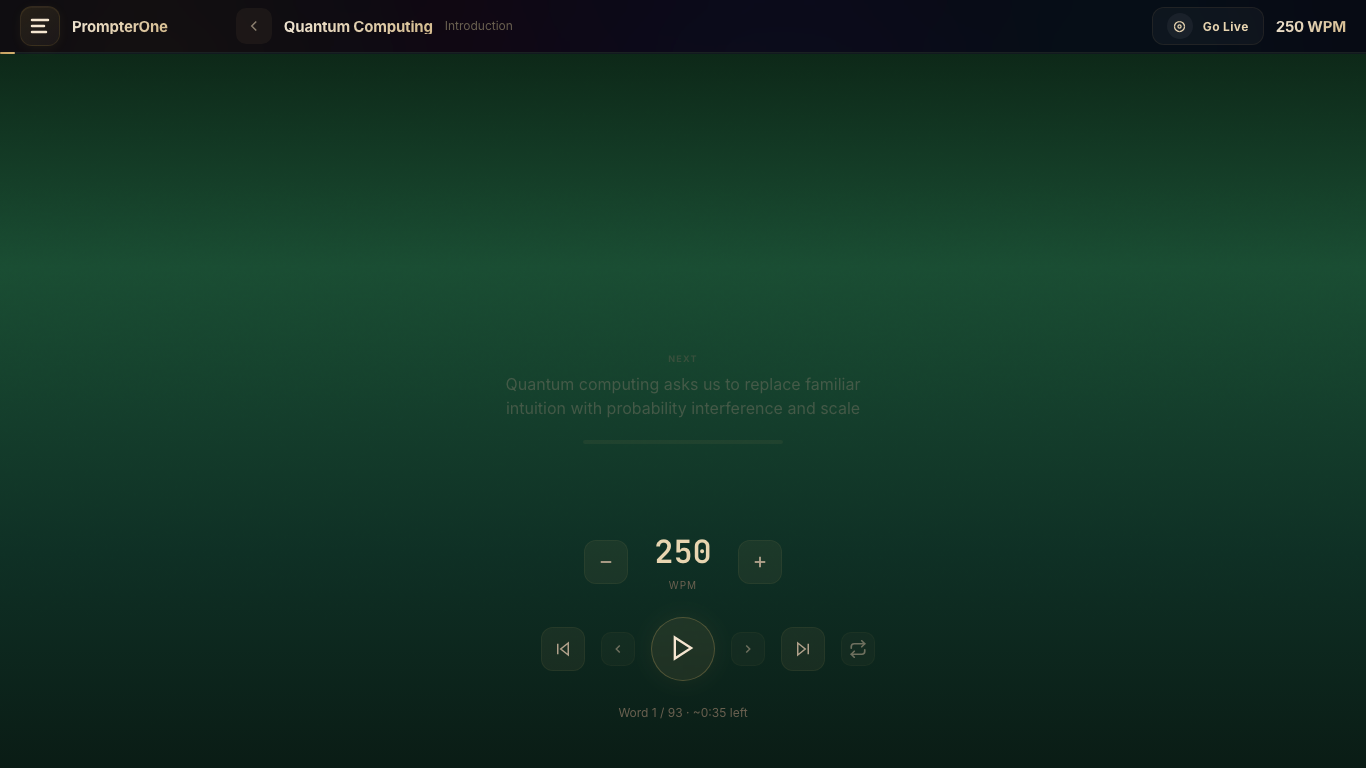
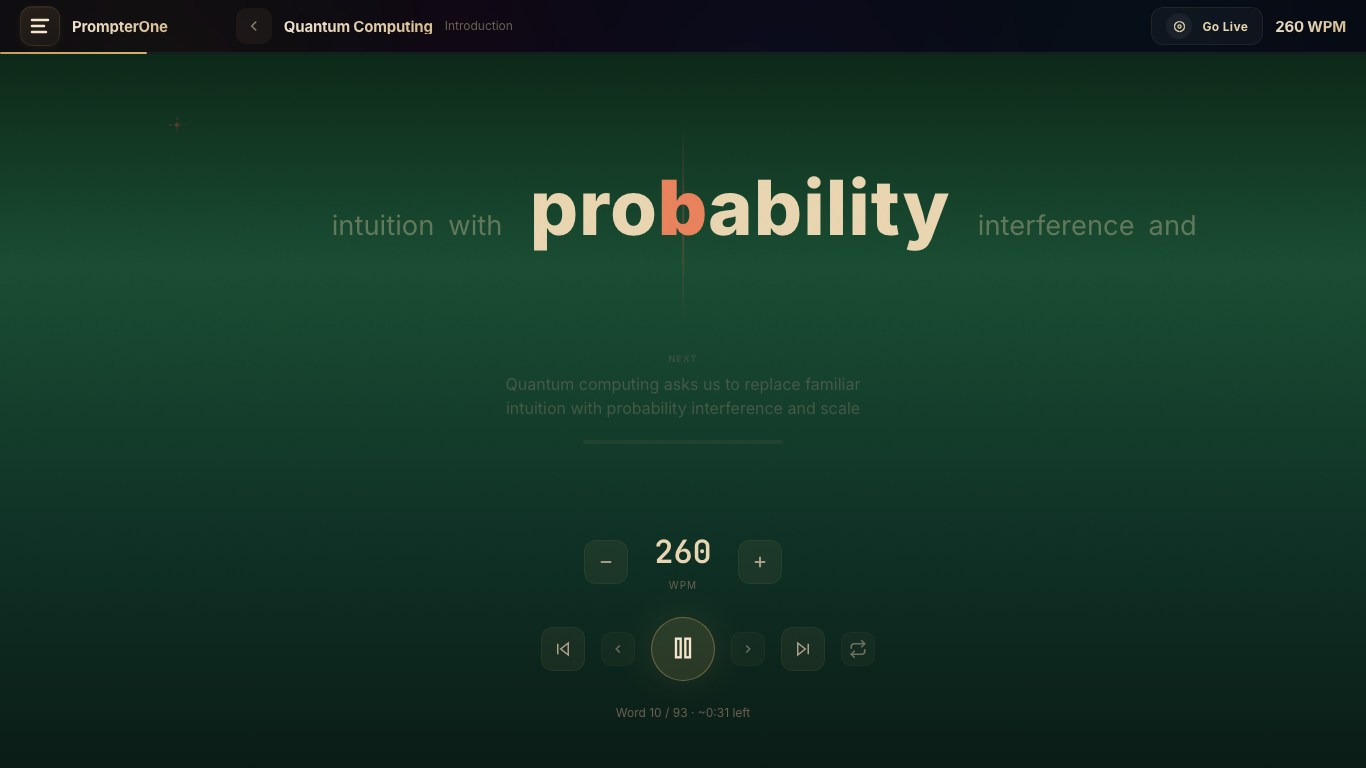
Refresh dark README screenshots and balance teleprompter text

diff --git a/src/PrompterOne.Shared/wwwroot/design/modules/reader/10-reading-states.css b/src/PrompterOne.Shared/wwwroot/design/modules/reader/10-reading-states.css
@@ -87,13 +87,17 @@
 
 .rd-cluster-text {
     font-size: var(--rd-font-size, 36px);
+    max-width: min(100%, var(--rd-content-max-width, 940px));
     font-weight: 700;
     line-height: 1.9;
     color: rgba(242,230,204,.34);
     letter-spacing: 0.01em;
     word-spacing: 0.08em;
+    margin-inline: auto;
     overflow-wrap: break-word;
     hyphens: none;
+    text-align: center;
+    text-wrap: balance;
     font-kerning: normal;
     font-feature-settings: "kern" 1;
     -webkit-font-smoothing: antialiased;

diff --git a/tests/PrompterOne.App.UITests/Teleprompter/TeleprompterTextBalanceFlowTests.cs b/tests/PrompterOne.App.UITests/Teleprompter/TeleprompterTextBalanceFlowTests.cs
@@ -1,0 +1,101 @@
+using PrompterOne.Shared.Contracts;
+using static Microsoft.Playwright.Assertions;
+
+namespace PrompterOne.App.UITests;
+
+public sealed class TeleprompterTextBalanceFlowTests(StandaloneAppFixture fixture)
+    : AppUiTestBase(fixture), IClassFixture<StandaloneAppFixture>
+{
+    private const int OpeningCardIndex = 0;
+
+    [Fact]
+    public Task TeleprompterScreen_OpeningBlock_KeepsMultiLineTextVisuallyBalancedWithinStage() =>
+        RunPageAsync(async page =>
+        {
+            await page.GotoAsync(BrowserTestConstants.Routes.TeleprompterDemo);
+            await Expect(page.GetByTestId(UiTestIds.Teleprompter.Page)).ToBeVisibleAsync(new()
+            {
+                Timeout = BrowserTestConstants.Timing.ExtendedVisibleTimeoutMs
+            });
+
+            var balance = await page.GetByTestId(UiTestIds.Teleprompter.CardText(OpeningCardIndex))
+                .EvaluateAsync<ReaderLineBalanceProbe?>(
+                    """
+                    (element, stageId) => {
+                        if (!(element instanceof HTMLElement)) {
+                            return null;
+                        }
+
+                        const stage = document.getElementById(stageId);
+                        if (!(stage instanceof HTMLElement)) {
+                            return null;
+                        }
+
+                        const range = document.createRange();
+                        range.selectNodeContents(element);
+
+                        const stageRect = stage.getBoundingClientRect();
+                        const wordRects = Array
+                            .from(range.getClientRects())
+                            .filter(rect => rect.width > 0 && rect.height > 0);
+
+                        if (wordRects.length === 0) {
+                            return {
+                                lineCount: 0,
+                                maxAsymmetryPx: 0,
+                                averageAsymmetryPx: 0
+                            };
+                        }
+
+                        const lineRectMap = new Map();
+                        for (const rect of wordRects) {
+                            const key = Math.round(rect.top);
+                            const existing = lineRectMap.get(key);
+                            if (existing) {
+                                existing.left = Math.min(existing.left, rect.left);
+                                existing.right = Math.max(existing.right, rect.right);
+                            } else {
+                                lineRectMap.set(key, { left: rect.left, right: rect.right });
+                            }
+                        }
+
+                        const lineRects = Array.from(lineRectMap.values());
+                        const asymmetries = lineRects.map(rect => {
+                            const leftGap = rect.left - stageRect.left;
+                            const rightGap = stageRect.right - rect.right;
+                            return Math.abs(leftGap - rightGap);
+                        });
+
+                        const totalAsymmetry = asymmetries.reduce((sum, value) => sum + value, 0);
+                        return {
+                            lineCount: lineRects.length,
+                            maxAsymmetryPx: Math.max(...asymmetries),
+                            averageAsymmetryPx: totalAsymmetry / asymmetries.length
+                        };
+                    }
+                    """,
+                    UiDomIds.Teleprompter.ClusterWrap);
+
+            Assert.NotNull(balance);
+            Assert.True(
+                balance.LineCount >= BrowserTestConstants.TeleprompterFlow.MinimumBalancedTextLineCount,
+                $"Expected at least {BrowserTestConstants.TeleprompterFlow.MinimumBalancedTextLineCount} visible text lines, but found {balance.LineCount}.");
+            Assert.InRange(
+                balance.MaxAsymmetryPx,
+                0,
+                BrowserTestConstants.TeleprompterFlow.MaximumTextLineAsymmetryPx);
+            Assert.InRange(
+                balance.AverageAsymmetryPx,
+                0,
+                BrowserTestConstants.TeleprompterFlow.MaximumAverageTextLineAsymmetryPx);
+        });
+
+    private sealed class ReaderLineBalanceProbe
+    {
+        public int LineCount { get; init; }
+
+        public double MaxAsymmetryPx { get; init; }
+
+        public double AverageAsymmetryPx { get; init; }
+    }
+}

diff --git a/src/PrompterOne.Shared/Teleprompter/Pages/TeleprompterPage.ReaderRendering.cs b/src/PrompterOne.Shared/Teleprompter/Pages/TeleprompterPage.ReaderRendering.cs
@@ -11,6 +11,9 @@ public partial class TeleprompterPage
     private const string ReaderCardCssClass = "rd-card";
     private const string ReaderCardNextCssClass = "rd-card-next";
     private const string ReaderCardPreviousCssClass = "rd-card-prev";
+    private const int ReaderComfortableContentMaxWidth = 940;
+    private const int ReaderComfortablePortraitContentMaxWidth = 760;
+    private const string ReaderContentMaxWidthVariableName = "--rd-content-max-width";
     private const string ReaderControlButtonCssClass = "rd-ctrl-btn";
     private const string ReaderCountdownCssClass = "rd-countdown";
     private const string ReaderGradientCssClass = "rd-gradient";
@@ -124,9 +127,11 @@ public partial class TeleprompterPage
 
     private string BuildClusterWrapStyle()
     {
+        var contentMaxWidth = ResolveReaderContentMaxWidth();
         var styleParts = new List<string>
         {
             $"max-width:{_readerTextWidth.ToString(CultureInfo.InvariantCulture)}px",
+            $"{ReaderContentMaxWidthVariableName}:{contentMaxWidth.ToString(CultureInfo.InvariantCulture)}px",
             $"--rd-font-size:{_readerFontSize.ToString(CultureInfo.InvariantCulture)}px"
         };
         var readerTransform = BuildReaderTransform();
@@ -138,6 +143,14 @@ public partial class TeleprompterPage
         }
 
         return string.Join(';', styleParts) + ';';
+    }
+
+    private int ResolveReaderContentMaxWidth()
+    {
+        var contentMaxWidth = Math.Min(_readerTextWidth, ReaderComfortableContentMaxWidth);
+        return _readerTextOrientation == ReaderTextOrientation.Portrait
+            ? Math.Min(contentMaxWidth, ReaderComfortablePortraitContentMaxWidth)
+            : contentMaxWidth;
     }
 
     private string BuildReaderTransform()

diff --git a/tests/PrompterOne.App.UITests/Library/LibraryScreenFlowTests.cs b/tests/PrompterOne.App.UITests/Library/LibraryScreenFlowTests.cs
@@ -19,8 +19,16 @@ public sealed class LibraryScreenFlowTests(StandaloneAppFixture fixture) : AppUi
             await Expect(page.GetByTestId(UiTestIds.Header.GoLive))
                 .ToHaveClassAsync(BrowserTestConstants.Regexes.GoLiveHeaderClass);
             await Expect(page.GetByTestId(UiTestIds.Library.FolderChips)).ToHaveCountAsync(0);
+
+            var presentationsFolder = page.GetByTestId(BrowserTestConstants.Elements.PresentationsFolder);
+            await presentationsFolder.ClickAsync();
+            await Expect(page.GetByTestId(UiTestIds.Header.LibraryBreadcrumbCurrent))
+                .ToHaveTextAsync(BrowserTestConstants.Folders.PresentationsName);
             UiScenarioArtifacts.ResetScenario(StartupScenarioName);
             await UiScenarioArtifacts.CapturePageAsync(page, StartupScenarioName, StartupScenarioStep);
+
+            await page.GetByTestId(UiTestIds.Library.FolderAll).ClickAsync();
+
             var demoCard = page.GetByTestId(BrowserTestConstants.Elements.DemoCard);
             await Expect(demoCard).ToContainTextAsync(BrowserTestConstants.Scripts.ProductLaunchTitle);
             await Expect(demoCard.Locator(BrowserTestConstants.Selectors.CardCoverMeta))

diff --git a/tests/PrompterOne.App.UITests/Support/BrowserTestConstants.ScreenFlows.cs b/tests/PrompterOne.App.UITests/Support/BrowserTestConstants.ScreenFlows.cs
@@ -109,6 +109,9 @@ internal static partial class BrowserTestConstants
         public const string ProgressEmptyStylePattern = @"width:\s*0%";
         public const string ProgressFilledStylePattern = @"width:\s*100%";
         public const double MaxProgressShellOverflowPx = 0.5;
+        public const int MinimumBalancedTextLineCount = 2;
+        public const double MaximumTextLineAsymmetryPx = 120;
+        public const double MaximumAverageTextLineAsymmetryPx = 88;
         public const string ReaderOrientationAttribute = "data-reader-orientation";
         public const string MirrorHorizontalTransform = "scaleX(-1)";
         public const string MirrorVerticalTransform = "scaleY(-1)";

diff --git a/AGENTS.md b/AGENTS.md
@@ -78,6 +78,8 @@ Rule format:
 
 - Use `PrompterOne` as the canonical product, solution, namespace, and folder name across code, docs, tests, and build paths; do not reintroduce legacy product-name variants after the rename.
 - Repo-owned docs, README, ADRs, and AGENTS files must not contain local usernames, home-directory paths, or personal machine-specific references; use repo-relative paths or neutral wording instead.
+- Public-facing screenshots and any screenshot-generating or screenshot-asserting tests must use English-visible content so README, docs, and release assets stay globally readable and consistent.
+- Public-facing screenshots that include camera or preview feeds must not ship mirrored or reversed readable text; choose or configure the capture so visible text reads correctly in the final asset.
 
 ## Rules to Follow (Mandatory)
 
